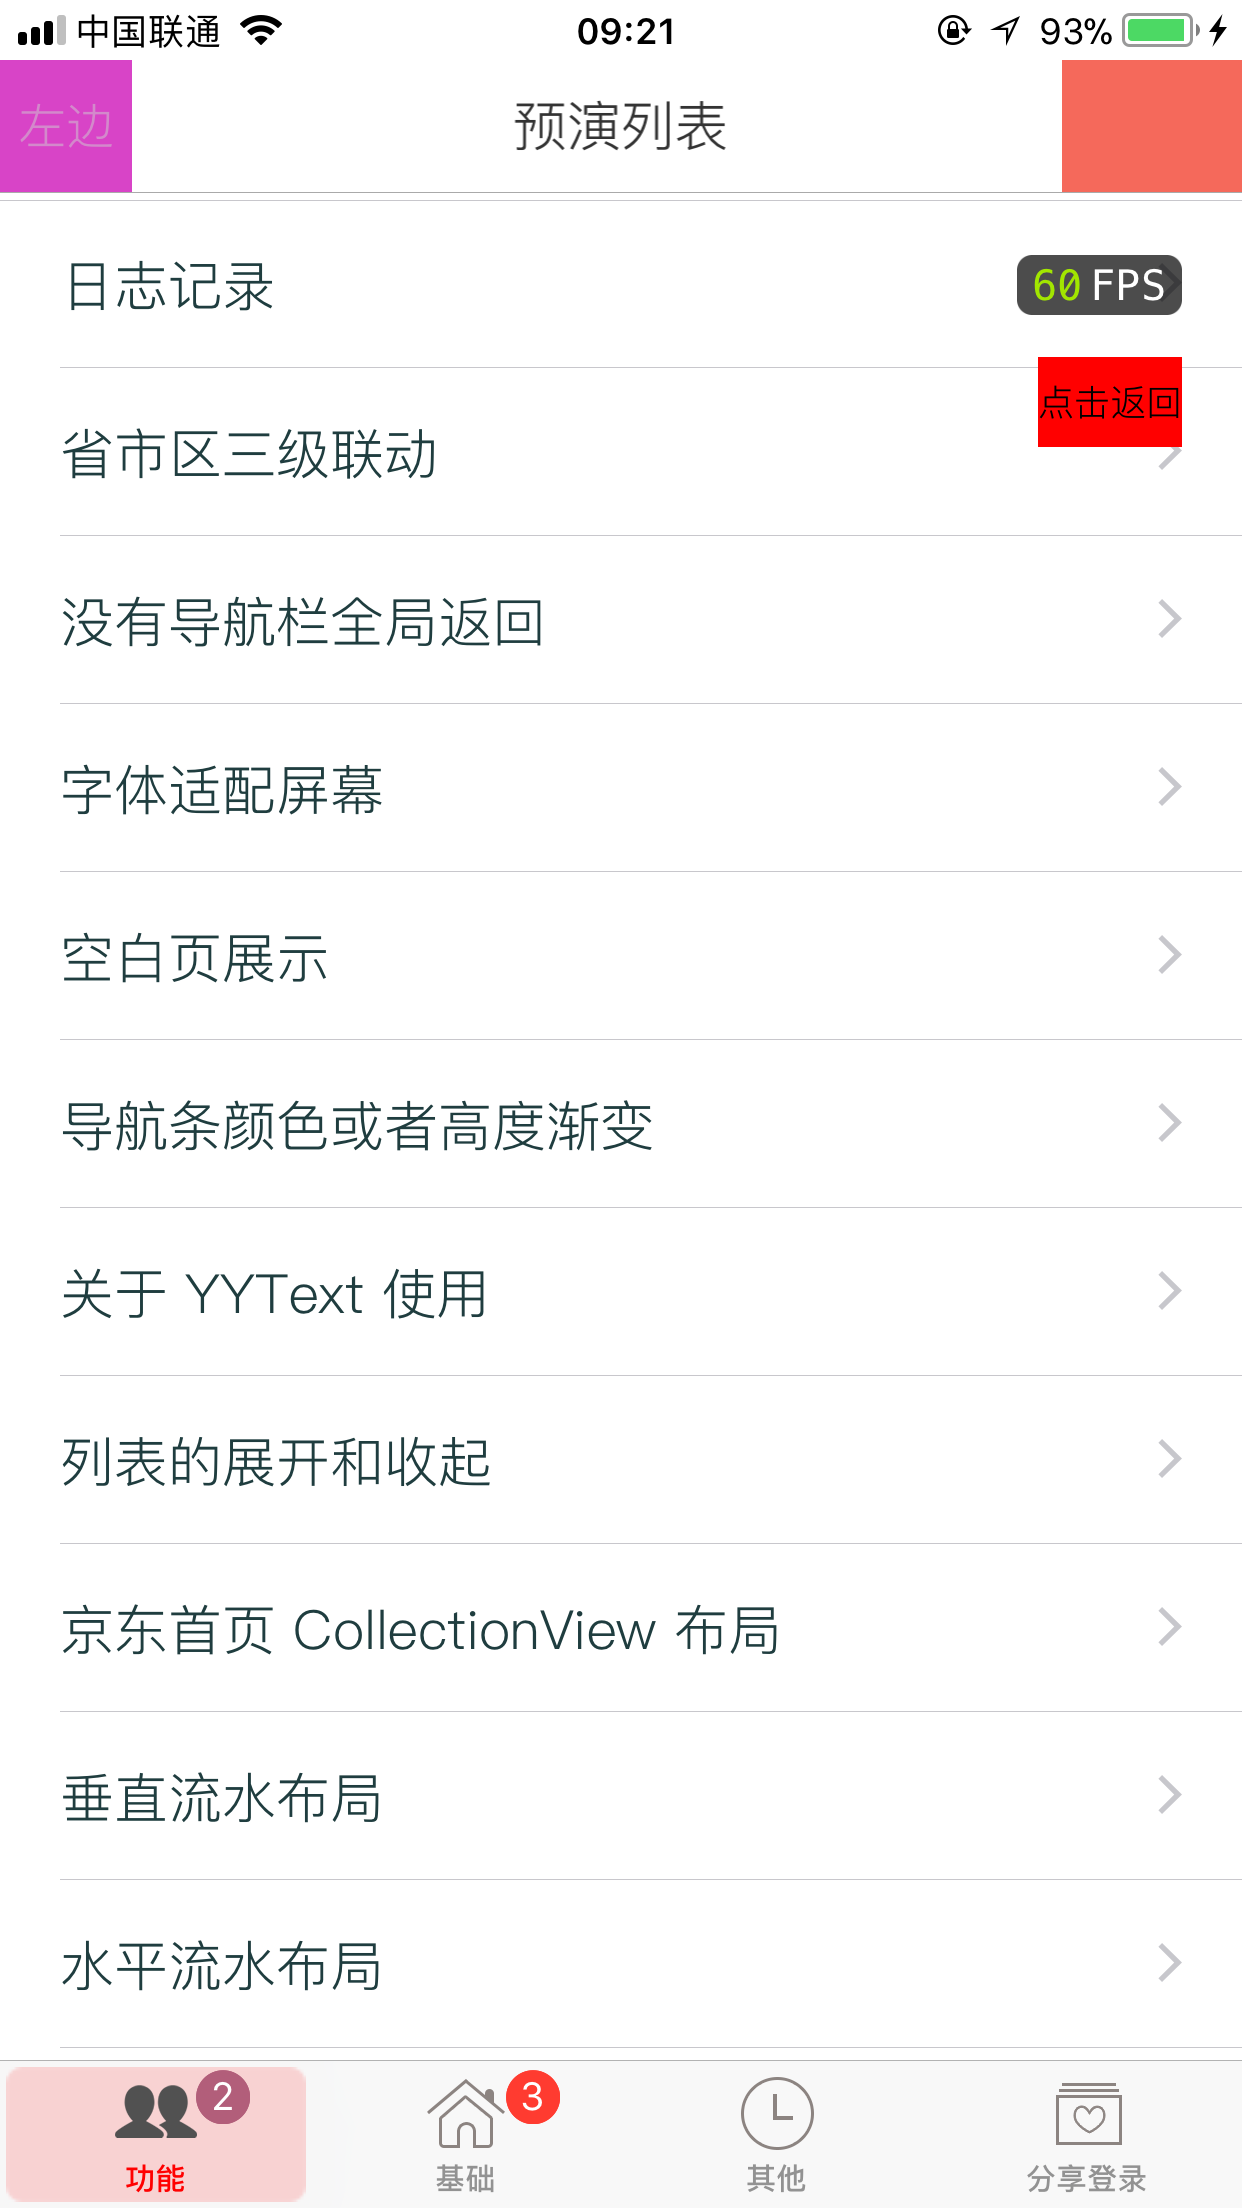
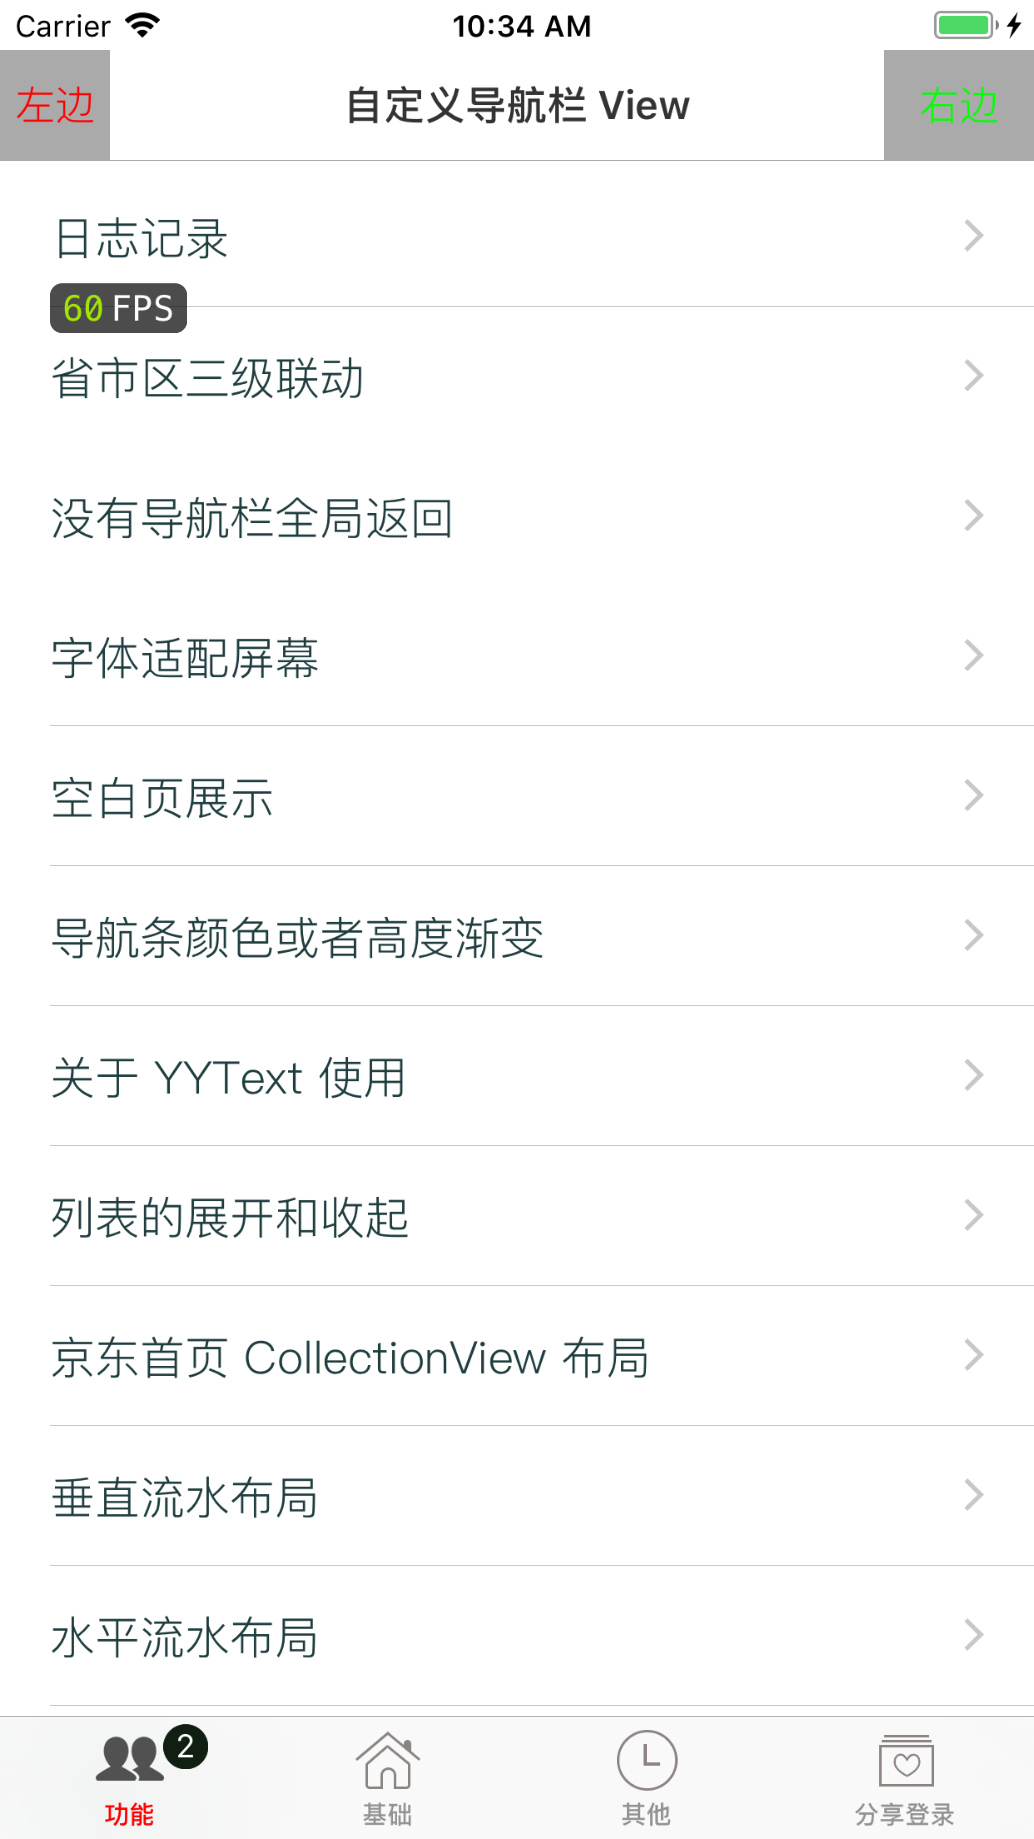
自定义导航栏 view 说明

diff --git a/PLMMPRJK/PLMMPRJK/Classes/New/Controller/LMJNewViewController.m b/PLMMPRJK/PLMMPRJK/Classes/New/Controller/LMJNewViewController.m
@@ -247,7 +247,7 @@
 - (UIImage *)lmjNavigationBarLeftButtonImage:(UIButton *)leftButton navigationBar:(LMJNavigationBar *)navigationBar
 {
     [leftButton setTitle:@"左边" forState: UIControlStateNormal];
-    [leftButton setTitleColor:[UIColor blackColor] forState:UIControlStateNormal];
+    [leftButton setTitleColor:[UIColor redColor] forState:UIControlStateNormal];
     [leftButton setBackgroundColor:[UIColor lightGrayColor] forState:UIControlStateNormal];
     
     return nil;
@@ -256,9 +256,9 @@
 
 - (UIImage *)lmjNavigationBarRightButtonImage:(UIButton *)rightButton navigationBar:(LMJNavigationBar *)navigationBar
 {
-    rightButton.backgroundColor = [UIColor lightGrayColor];
+    rightButton.backgroundColor = [UIColor redColor];
     [rightButton setTitle:@"右边" forState:UIControlStateNormal];
-    [rightButton setTitleColor:[UIColor blueColor] forState:UIControlStateNormal];
+    [rightButton setTitleColor:[UIColor greenColor] forState:UIControlStateNormal];
     [rightButton setBackgroundColor:[UIColor lightGrayColor] forState:UIControlStateNormal];
     
     return nil;
